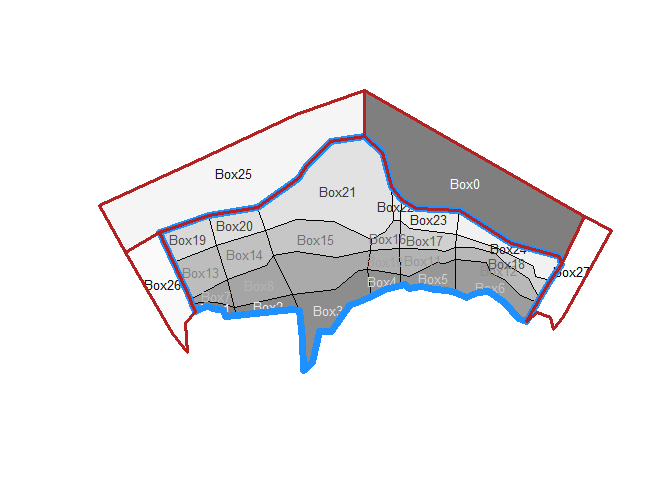
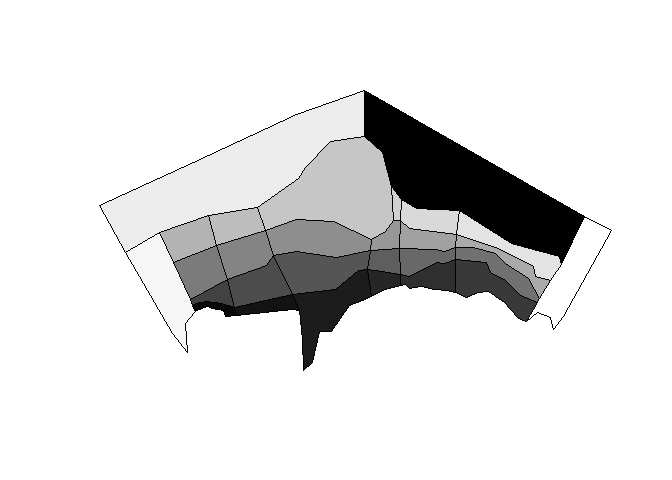
update readme

diff --git a/README.md b/README.md
@@ -4,15 +4,15 @@
 rbgm - R tools for Box Geometry model files
 -------------------------------------------
 
-rbgm allows reading of geometry from BGM files, either in raw coordinate form or as Spatial objects.
+`rbgm` allows reading of geometry from BGM files, either in raw coordinate form or as Spatial objects.
 
-rbgm aims to make all of this straightforward:
+Rbgm aims to make all of the following straightforward:
 
 -   read of the BGM format, maintaining all topology and attributes
 -   use of the BGM specification for visualization and data extraction
 -   creation of BGM from from shapefiles, R spatial objects and whatever else
 
-There is some overlapping functionality with [oms](https://github.com/mdsumner/oms), for coupling with ROMS output and with [gris](https://github.com/mdsumner/gris), for building topological data structures. All of these packages are in development and are subject to change.
+There is some overlapping functionality with [angstroms](https://github.com/mdsumner/angstroms), for coupling with ROMS output and with [gris](https://github.com/mdsumner/gris), for building topological data structures. All of these packages are in development and are subject to change.
 
 Install dev version
 -------------------
@@ -25,15 +25,42 @@ devtools::install_github("mdsumner/rbgm")
 Example
 -------
 
+Read in the built-in example .bgm file with `read_bgm`, and plot it as box-polygons.
+
 ``` r
 library(rbgm)
 #> Loading required package: raster
 #> Loading required package: sp
+library(scales)  ## for alpha function
 ## example data set in package
 fname <- system.file("extdata", "Antarctica_28.bgm", package = "rbgm")
 bgm <- read_bgm(fname)
-plot(boxSpatial(bgm), col = grey(seq(0, 1, length = nrow(bgm$boxes)), alpha = 0.5))
+plot(boxSpatial(bgm), col = grey(seq(0, 1, length = nrow(bgm$boxes))))
+```
 
+![](figure/README-unnamed-chunk-3-1.png)<!-- -->
+
+The function `read_bgm` returns a generic list structure of tables, which currently includes the following. More on these later.
+
+``` r
+print(names(bgm))
+#> [1] "vertices"         "facesXverts"      "faces"           
+#> [4] "facesXboxes"      "boxesXverts"      "boxes"           
+#> [7] "boundaryvertices" "extra"
+```
+
+There are two functions for converting from the raw .bgm data structures to `Spatial` objects, as defined in the `sp` package. (Spatial objects are formal GIS-like data that store a table of attribute data against a set of matching polygons, lines or points.)
+
+-   `boxSpatial` converts to a `SpatialPolygonsDataFrame`, with a table of attributes relevant to the boxes
+-   `faceSpatial` converts to a `SpatialLinesDataFram`, with attributes for the faces (straight line edges that define box boundaries)
+
+From these conversions we can export to GIS formats like shapefiles.
+
+It's important to note that the Spatial objects cannot store the full topological and attribute information present in the .bgm, so these are convenience converters that are one-way. We can generate .bgm from these objects, but it cannot be stored in just one Spatial object.
+
+These converter functions provide fully-functional objects with complete coordinate system metadata, that we can subset, interrogate and plot.
+
+``` r
 (spdf <- boxSpatial(bgm))
 #> class       : SpatialPolygonsDataFrame 
 #> features    : 28 
@@ -43,6 +70,7 @@ plot(boxSpatial(bgm), col = grey(seq(0, 1, length = nrow(bgm$boxes)), alpha = 0.
 #> names       : label, nconn,  botz,         area, vertmix, horizmix,    insideX,    insideY, .bx0, boundary 
 #> min values  :  Box0,     3, -2120,  12850972822,   0e+00,        0, -1128926.5, -135019.93,    0,     TRUE 
 #> max values  :  Box9,    13,  -499, 823802623354,   1e-05,        1,  1521521.9,  387882.74,   27,    FALSE
+
 (sldf <- faceSpatial(bgm))
 #> class       : SpatialLinesDataFrame 
 #> features    : 90 
@@ -52,16 +80,42 @@ plot(boxSpatial(bgm), col = grey(seq(0, 1, length = nrow(bgm$boxes)), alpha = 0.
 #> names       :       cosine,          sine, leftbox, rightbox,    length, .fx0, label 
 #> min values  : -0.027850857, -0.0433564821,       0,        0,  28877.31,    0, face0 
 #> max values  :  0.999999619,  0.9999999938,      27,       25, 456745.20,   89, face9
-text(coordinates(spdf), labels = spdf$label, col = grey(seq(1, 0, length = nrow(bgm$boxes))), cex = 0.8)
-## isolate boxes that are outside the boundary
-
-## just get a single boundary for the inner
-plot(boundarySpatial(bgm), border = "dodgerblue", lwd = 7, add = TRUE)
-## or subset the boundary boxes
-plot(subset(spdf, boundary), border = "firebrick", lwd = 3, add = TRUE)
 ```
 
-![](figure/README-unnamed-chunk-3-1.png)<!-- -->
+Subset based on attribute
+
+``` r
+subset(spdf, horizmix == 0, select = label)
+#> class       : SpatialPolygonsDataFrame 
+#> features    : 4 
+#> extent      : -1991376, 1840092, -916229.8, 1042354  (xmin, xmax, ymin, ymax)
+#> coord. ref. : +proj=laea +lat_0=-63 +lon_0=82 +x_0=0 +y_0=0 +datum=WGS84 +units=m +no_defs +ellps=WGS84 +towgs84=0,0,0 
+#> variables   : 1
+#> names       : label 
+#> min values  :  Box0 
+#> max values  : Box27
+
+plot(boxSpatial(bgm), col = grey(seq(0, 1, length = nrow(bgm$boxes)), alpha = 0.5))
+
+text(coordinates(spdf), labels = spdf$label, col = grey(seq(1, 0, length = nrow(bgm$boxes))), cex = 0.8)
+```
+
+![](figure/README-unnamed-chunk-6-1.png)<!-- -->
+
+For illustration isolate boxes that are outside the boundary.
+
+``` r
+
+## subset the boundary boxes
+plot(subset(spdf, boundary), border = "firebrick", lwd = 3)
+
+## or just get a single boundary for the inner
+plot(boundarySpatial(bgm), border = alpha("dodgerblue", 0.3), lwd = 7, add = TRUE)
+```
+
+![](figure/README-unnamed-chunk-7-1.png)<!-- -->
+
+Plot the boxes and then label the faces.
 
 ``` r
 
@@ -74,7 +128,7 @@ text(do.call(rbind, lapply(coordinates(sldf), function(x) apply(x[[1]], 2, mean)
      labels = gsub("ace", "", sldf$label), cex = 0.8, col = rainbow(nrow(sldf)), pos = 3)
 ```
 
-![](figure/README-unnamed-chunk-3-2.png)<!-- -->
+![](figure/README-unnamed-chunk-8-1.png)<!-- -->
 
 More information
 ----------------
